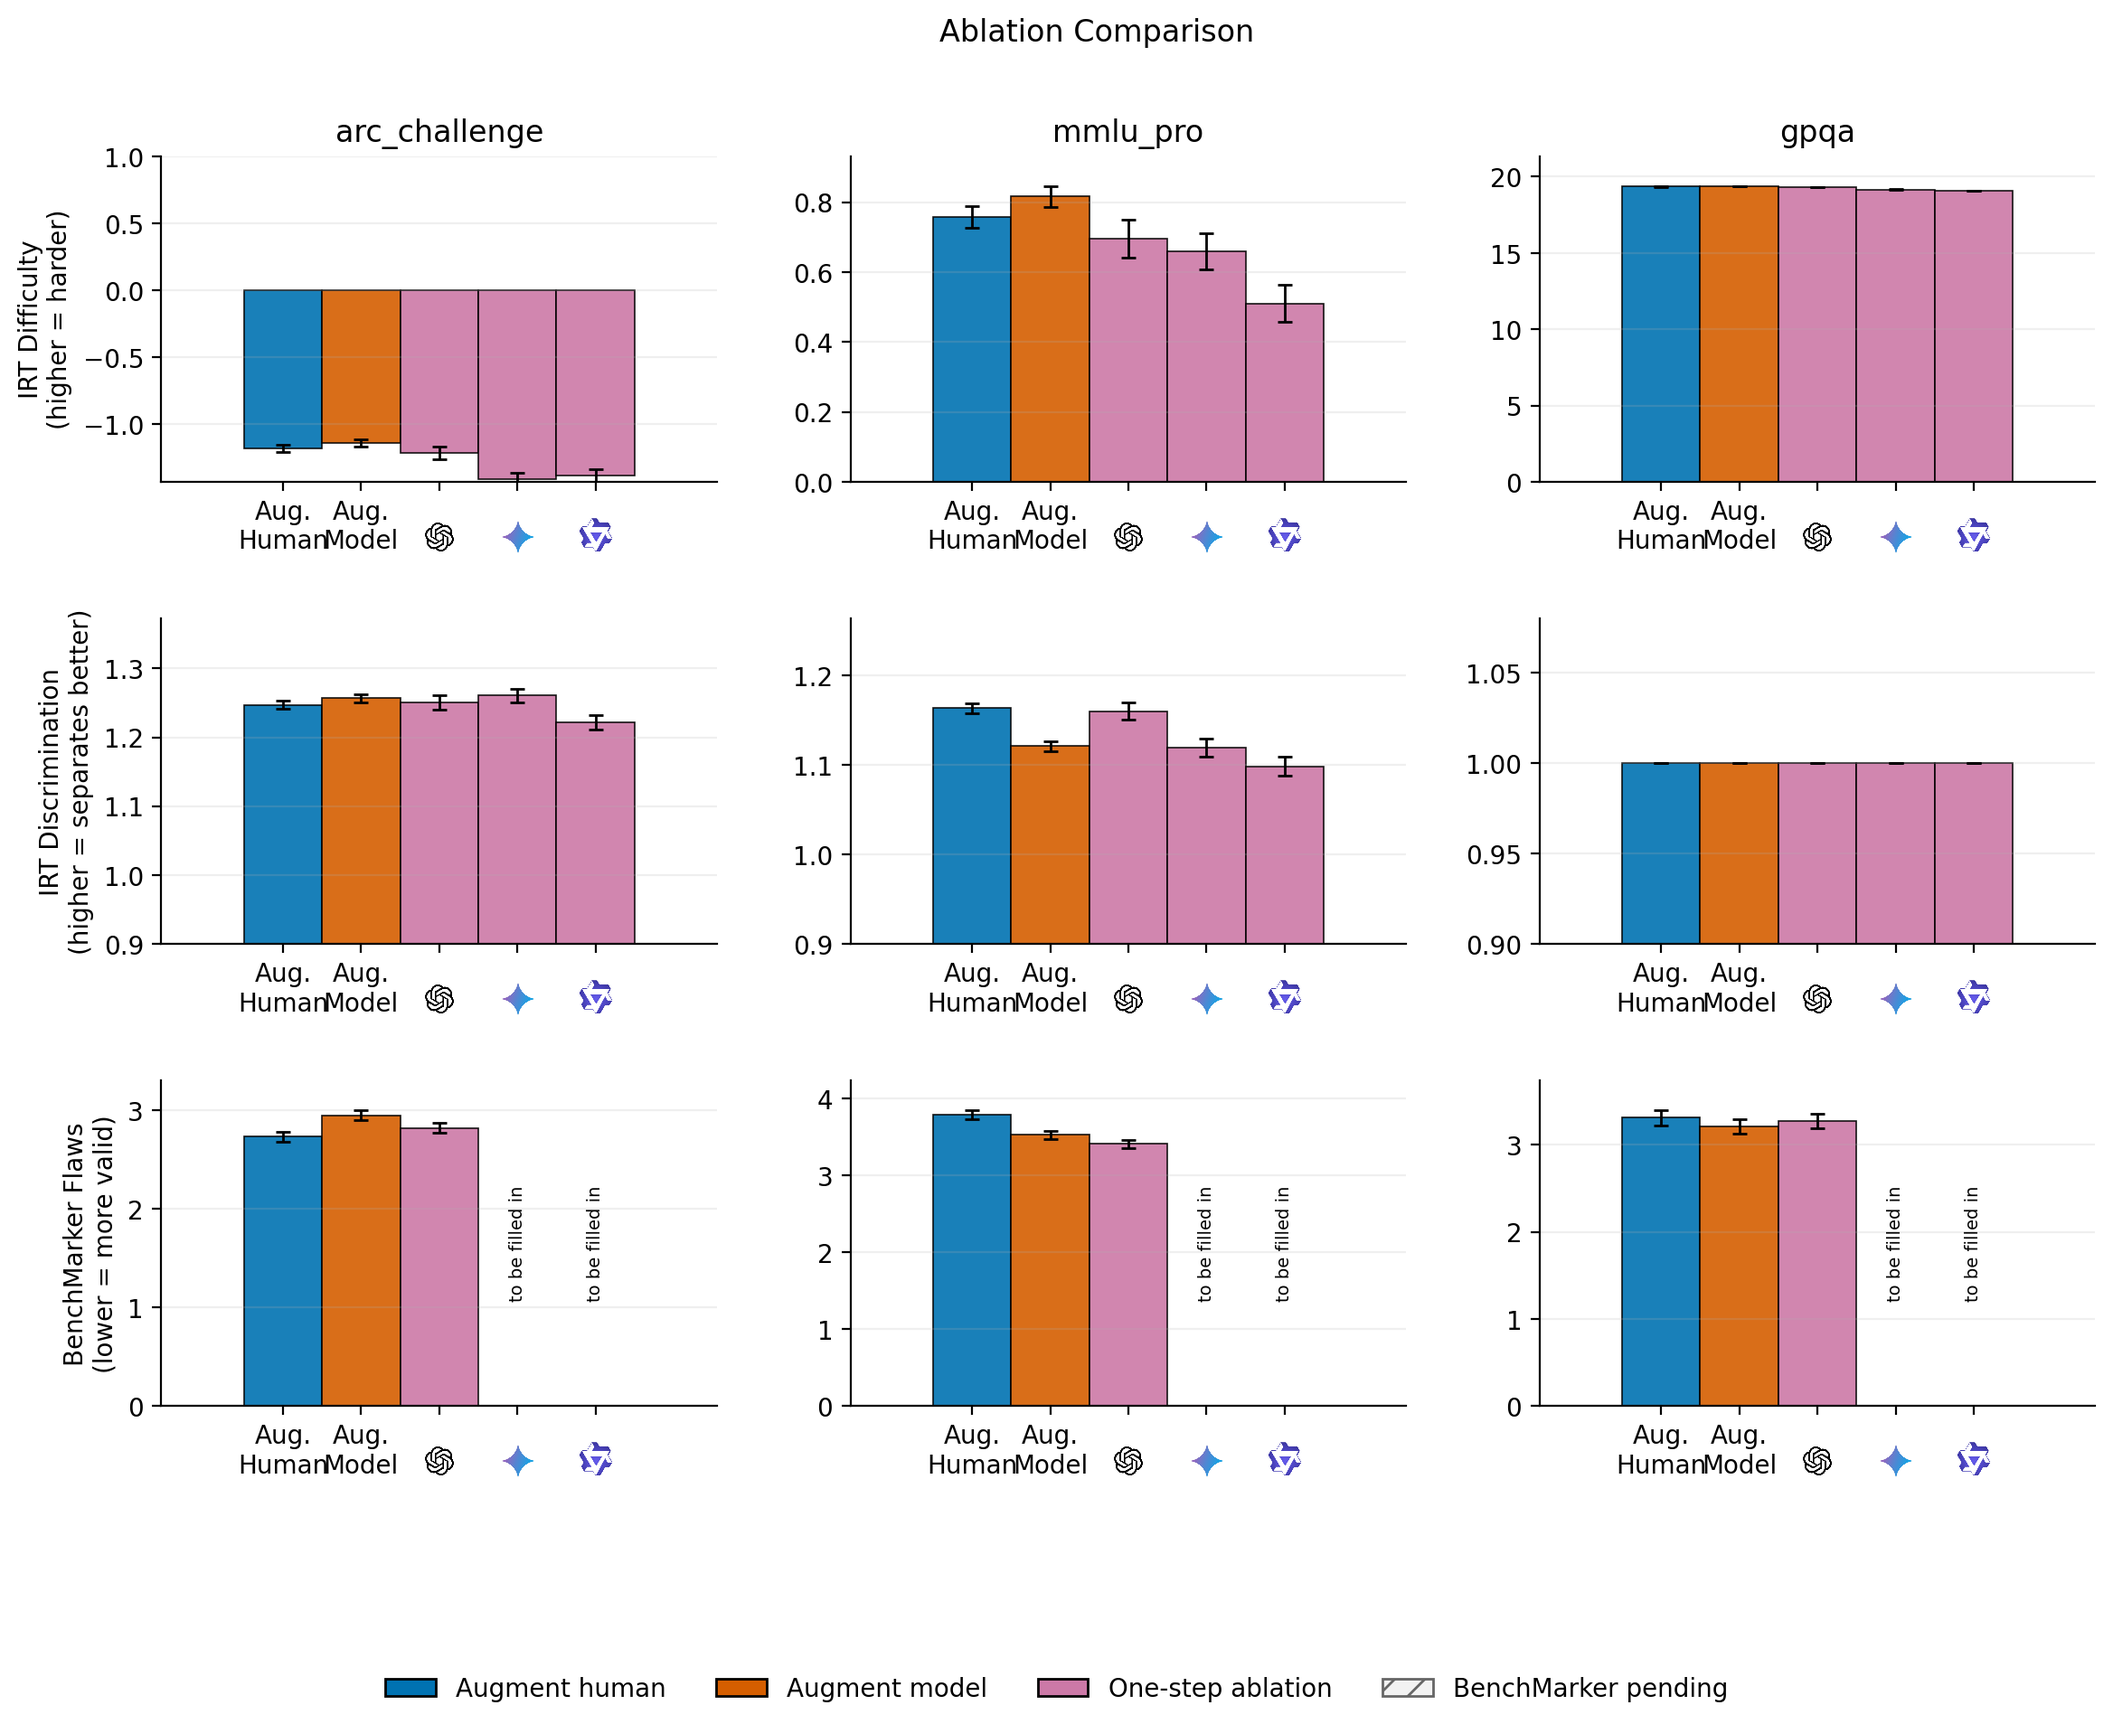
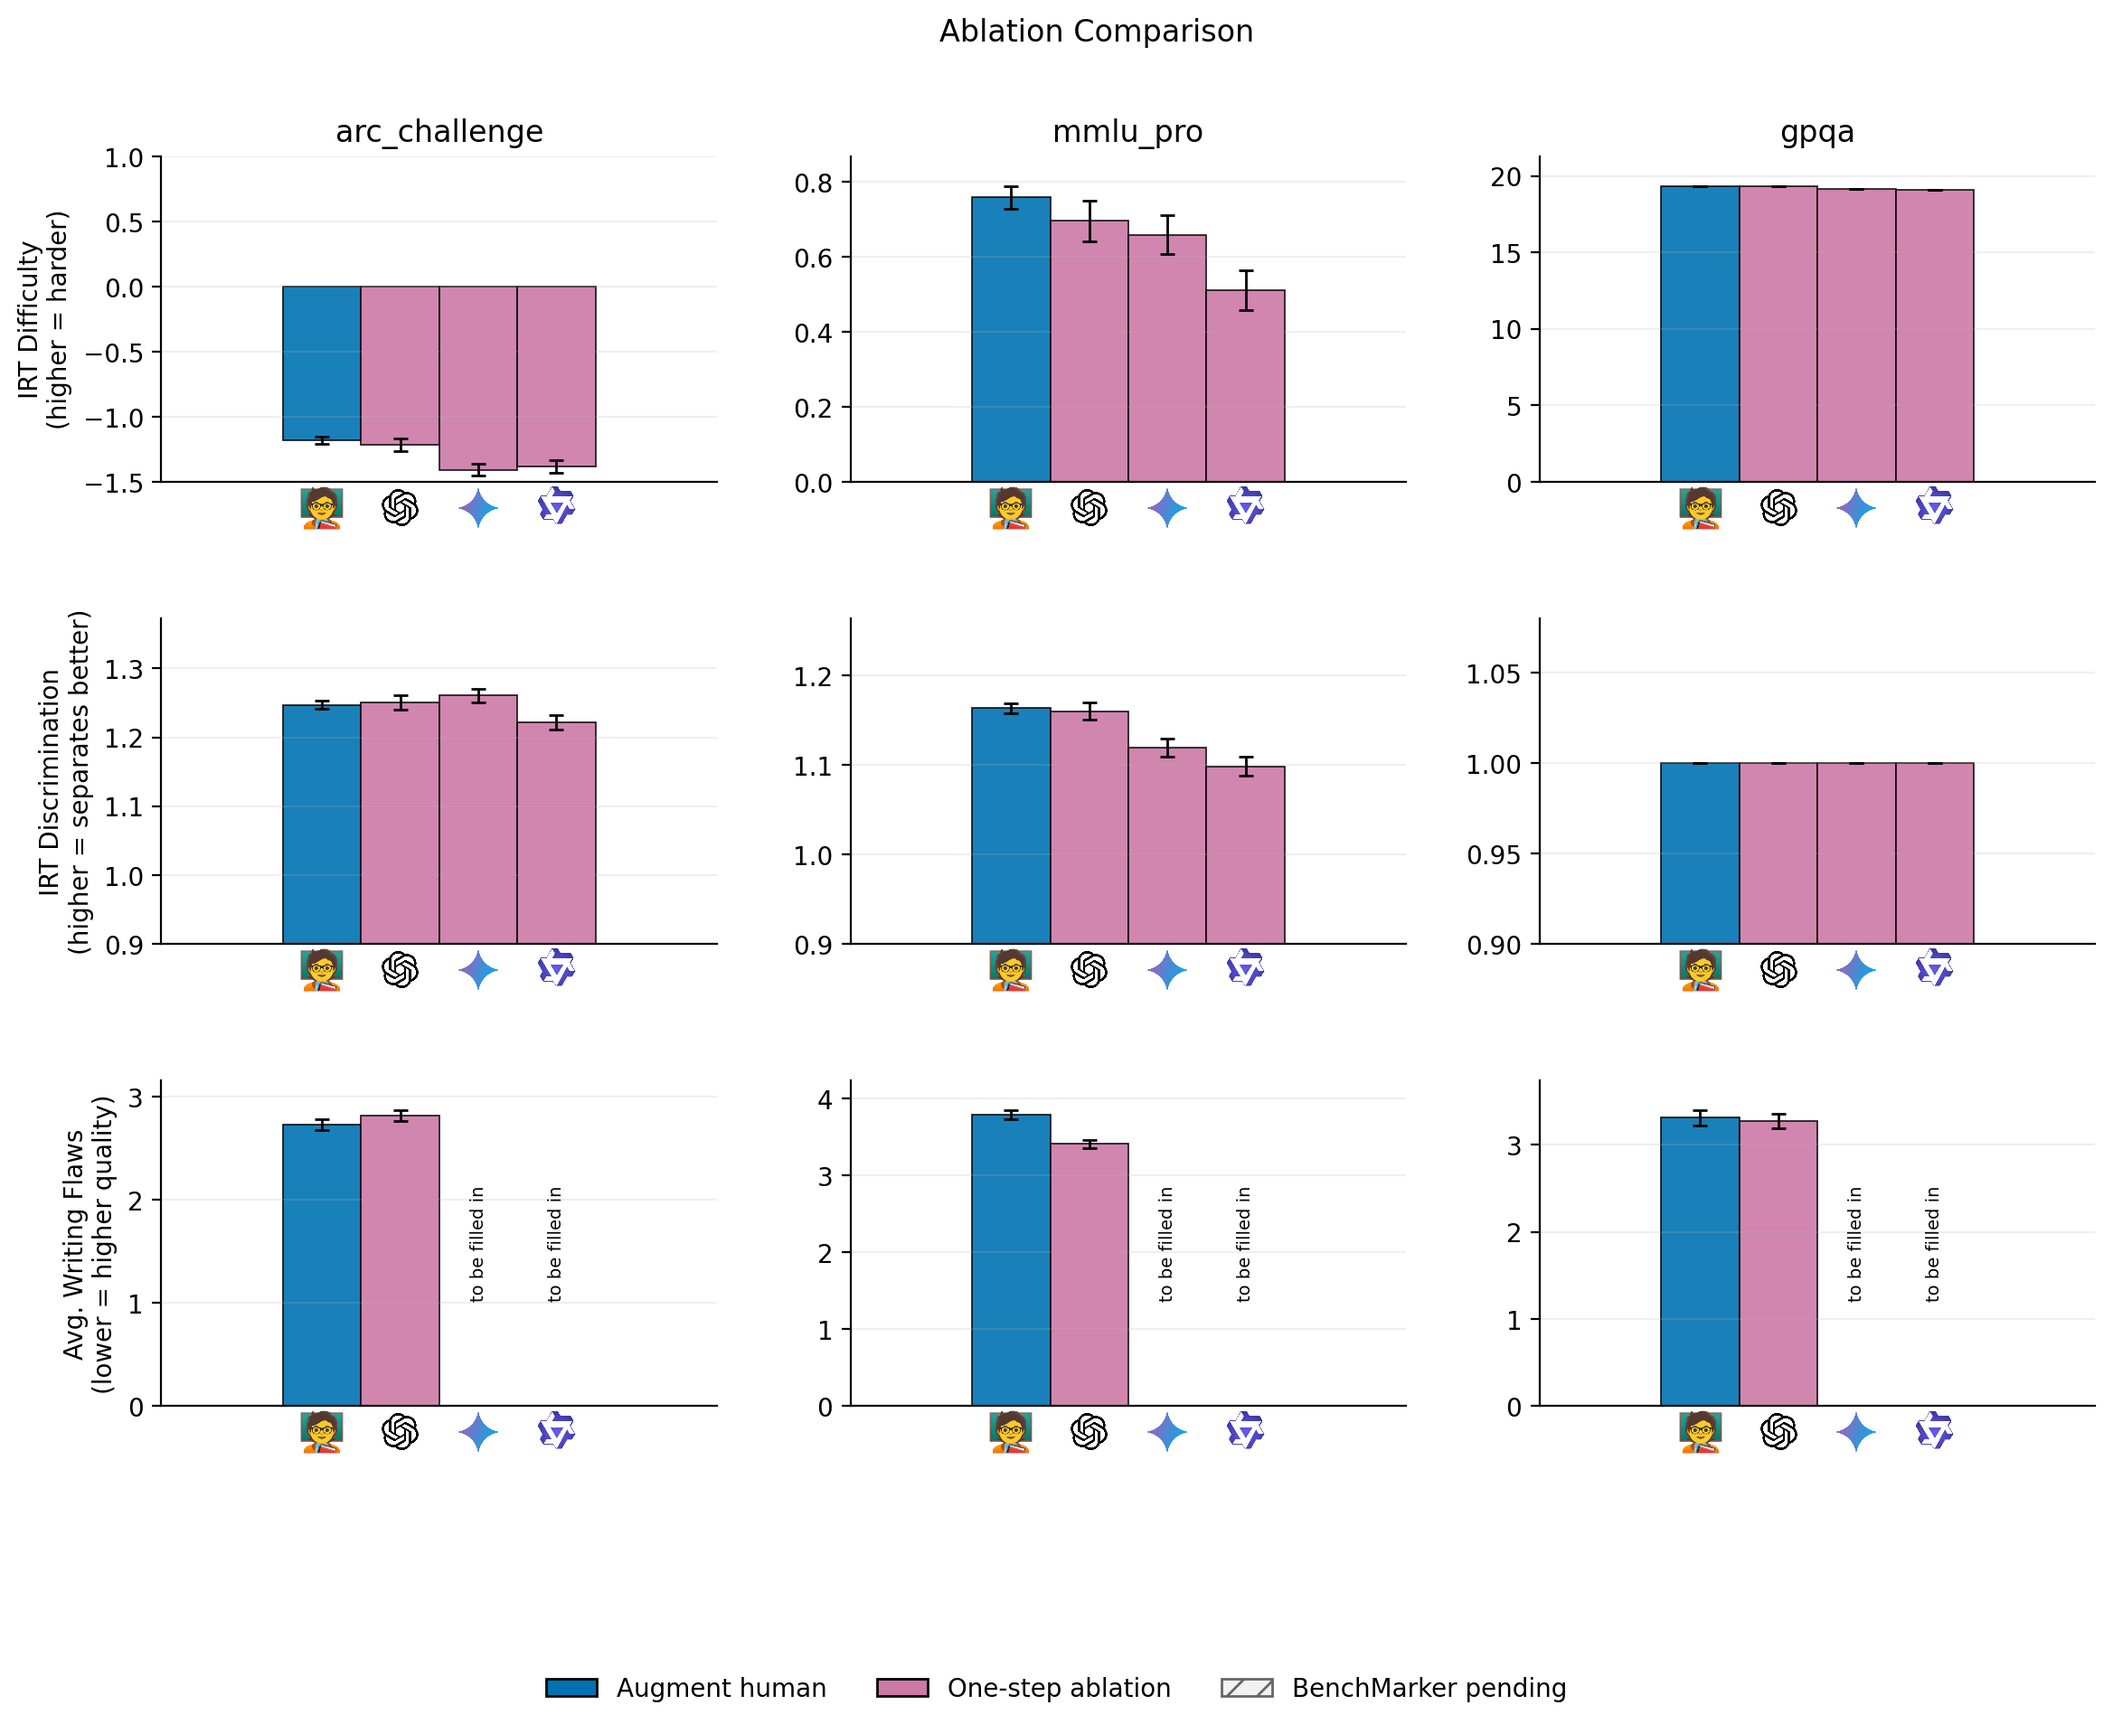
update graphs to look nicer

diff --git a/analysis/irt.py b/analysis/irt.py
@@ -51,12 +51,12 @@ MODEL_LOGOS = {
     "Qwen Ablation": LOGO_DIR / "qwen_logo.png",
 }
 MODEL_LOGO_ZOOM = {
-    "GPT": 0.045,
-    "Gemini": 0.055,
-    "Qwen": 0.07,
-    "GPT Ablation": 0.045,
-    "Gemini Ablation": 0.055,
-    "Qwen Ablation": 0.07,
+    "GPT": 0.057,
+    "Gemini": 0.070,
+    "Qwen": 0.090,
+    "GPT Ablation": 0.057,
+    "Gemini Ablation": 0.070,
+    "Qwen Ablation": 0.080,
 }
 
 STEM_PRIOR_SD = 3.0
@@ -721,7 +721,6 @@ def final_ablation_quality_frame(items: pd.DataFrame, validity: pd.DataFrame) ->
 
     for dataset in sorted(items["dataset"].unique(), key=dataset_sort_key):
         add_row(dataset, "Augment Human", "augment_human", "Human", None, "augment_human")
-        add_row(dataset, "Augment Model", "augment_model", "Model", None, "augment_model")
         for generator, label in MODEL_ORDER:
             add_row(dataset, f"{label} Ablation", "augment_ablation", "Ablation", generator, "augment_ablation" if label == "GPT" else None)
     return pd.DataFrame(rows)
@@ -772,13 +771,13 @@ def draw_final_bar(ax: plt.Axes, x: float, value: float, err: float, row: pd.Ser
     )
 
 
-def add_logo_tick(ax: plt.Axes, x: float, path: Path, *, zoom: float = 0.055) -> None:
+def add_logo_tick(ax: plt.Axes, x: float, path: Path, *, zoom: float = 0.055, y: float = -0.08) -> None:
     if not path.exists():
         return
     image = plt.imread(path)
     artist = AnnotationBbox(
         OffsetImage(image, zoom=zoom),
-        (x, -0.17),
+        (x, y),
         xycoords=("data", "axes fraction"),
         frameon=False,
         box_alignment=(0.5, 0.5),
@@ -788,12 +787,16 @@ def add_logo_tick(ax: plt.Axes, x: float, path: Path, *, zoom: float = 0.055) ->
     ax.add_artist(artist)
 
 
+def add_human_tick(ax: plt.Axes, x: float, y: float = -0.08) -> None:
+    add_logo_tick(ax, x, LOGO_DIR / "human_logo.png", zoom=0.14, y=y)
+
+
 def plot_final_grouped_quality(summary: pd.DataFrame, path: Path) -> Path:
     datasets = sorted(summary["dataset"].unique(), key=dataset_sort_key)
     metrics = [
         ("difficulty", "difficulty_se", "IRT Difficulty\n(higher = harder)"),
         ("discrimination", "discrimination_se", "IRT Discrimination\n(higher = separates better)"),
-        ("mean_flaws", "mean_flaws_se", "BenchMarker Flaws\n(lower = more valid)"),
+        ("mean_flaws", "mean_flaws_se", "Avg. Writing Flaws\n(lower = higher quality)"),
     ]
     fig, axes = plt.subplots(len(metrics), len(datasets), figsize=(5.6 * len(datasets), 10.2), squeeze=False)
 
@@ -822,19 +825,18 @@ def plot_final_grouped_quality(summary: pd.DataFrame, path: Path) -> Path:
 
             ax.set_title(str(dataset) if row_idx == 0 else "")
             ax.set_xticks([section_centers["From Scratch"], section_centers["Augmentation"]])
-            if row_idx == len(metrics) - 1:
-                ax.set_xticklabels(["From Scratch", "Augmentation"], rotation=0)
-                for section in ["From Scratch", "Augmentation"]:
-                    for offset, label in zip(offsets[1:], labels[1:], strict=True):
-                        logo_key = f"{label} Ablation"
-                        add_logo_tick(
-                            ax,
-                            section_centers[section] + float(offset),
-                            MODEL_LOGOS[logo_key],
-                            zoom=MODEL_LOGO_ZOOM[logo_key],
-                        )
-            else:
-                ax.set_xticklabels([])
+            ax.set_xticklabels(["From Scratch", "Augmentation"], rotation=0)
+            ax.tick_params(axis="x", pad=21, bottom=False)
+            for section in ["From Scratch", "Augmentation"]:
+                add_human_tick(ax, section_centers[section] + float(offsets[0]))
+                for offset, label in zip(offsets[1:], labels[1:], strict=True):
+                    logo_key = f"{label} Ablation"
+                    add_logo_tick(
+                        ax,
+                        section_centers[section] + float(offset),
+                        MODEL_LOGOS[logo_key],
+                        zoom=MODEL_LOGO_ZOOM[logo_key],
+                    )
             ax.set_ylabel(ylabel if col == 0 else "")
             ax.grid(axis="y", alpha=0.2)
             ax.spines["top"].set_visible(False)
@@ -857,7 +859,7 @@ def plot_final_grouped_quality(summary: pd.DataFrame, path: Path) -> Path:
     ]
     fig.suptitle("Question Quality: Human vs Model-Generated MCQs")
     fig.legend(handles=handles, loc="lower center", ncols=5, frameon=False)
-    fig.subplots_adjust(top=0.9, bottom=0.13, hspace=0.42, wspace=0.24)
+    fig.subplots_adjust(top=0.9, bottom=0.16, hspace=0.42, wspace=0.24)
     path.parent.mkdir(parents=True, exist_ok=True)
     fig.savefig(path, dpi=200, bbox_inches="tight")
     plt.close(fig)
@@ -869,7 +871,7 @@ def plot_final_ablation_quality(summary: pd.DataFrame, path: Path) -> Path:
     metrics = [
         ("difficulty", "difficulty_se", "IRT Difficulty\n(higher = harder)"),
         ("discrimination", "discrimination_se", "IRT Discrimination\n(higher = separates better)"),
-        ("mean_flaws", "mean_flaws_se", "BenchMarker Flaws\n(lower = more valid)"),
+        ("mean_flaws", "mean_flaws_se", "Avg. Writing Flaws\n(lower = higher quality)"),
     ]
     fig, axes = plt.subplots(len(metrics), len(datasets), figsize=(4.6 * len(datasets), 9.6), squeeze=False)
     for col, dataset in enumerate(datasets):
@@ -877,8 +879,8 @@ def plot_final_ablation_quality(summary: pd.DataFrame, path: Path) -> Path:
         for row_idx, (metric, err_col, ylabel) in enumerate(metrics):
             ax = axes[row_idx][col]
             plotted = []
-            labels = ["Augment Human", "Augment Model", "GPT Ablation", "Gemini Ablation", "Qwen Ablation"]
-            x_positions = np.array([-0.36, -0.18, 0.0, 0.18, 0.36])
+            labels = ["Augment Human", "GPT Ablation", "Gemini Ablation", "Qwen Ablation"]
+            x_positions = np.array([-0.27, -0.09, 0.09, 0.27])
             for x, label in zip(x_positions, labels, strict=True):
                 record = dataset_df.loc[label]
                 value = float(record[metric]) if pd.notna(record[metric]) else float("nan")
@@ -890,8 +892,10 @@ def plot_final_ablation_quality(summary: pd.DataFrame, path: Path) -> Path:
             ax.set_title(str(dataset) if row_idx == 0 else "")
             ax.set_xlim(-0.64, 0.64)
             ax.set_xticks(x_positions)
-            ax.set_xticklabels(["Aug.\nHuman", "Aug.\nModel", "", "", ""])
-            for x, label in zip(x_positions[2:], labels[2:], strict=True):
+            ax.set_xticklabels(["", "", "", ""])
+            ax.tick_params(axis="x", bottom=False)
+            add_human_tick(ax, float(x_positions[0]))
+            for x, label in zip(x_positions[1:], labels[1:], strict=True):
                 add_logo_tick(ax, float(x), MODEL_LOGOS[label], zoom=MODEL_LOGO_ZOOM[label])
             ax.set_ylabel(ylabel if col == 0 else "")
             ax.grid(axis="y", alpha=0.2)
@@ -901,10 +905,13 @@ def plot_final_ablation_quality(summary: pd.DataFrame, path: Path) -> Path:
                 ymax = max(plotted) * 1.08 if plotted else 1.05
                 ax.set_ylim(0.9, max(ymax, 1.05))
             elif plotted:
-                ax.set_ylim(min(0.0, min(plotted) * 1.05), max(plotted) * 1.1 if max(plotted) > 0 else 1.0)
+                ymin = min(0.0, min(plotted) * 1.05)
+                if dataset == "arc_challenge" and metric == "difficulty" and ymin > -1.5:
+                    ymin = -1.5
+                ymax = max(plotted) * 1.1 if max(plotted) > 0 else 1.0
+                ax.set_ylim(ymin, ymax)
     handles = [
         plt.Rectangle((0, 0), 1, 1, facecolor=HUMAN_COLOR, edgecolor="black", label="Augment human"),
-        plt.Rectangle((0, 0), 1, 1, facecolor=MODEL_COLOR, edgecolor="black", label="Augment model"),
         plt.Rectangle((0, 0), 1, 1, facecolor=ABLATION_COLOR, edgecolor="black", label="One-step ablation"),
         plt.Rectangle((0, 0), 1, 1, facecolor=MISSING_COLOR, edgecolor="#666666", hatch="//", label="BenchMarker pending"),
     ]
@@ -944,7 +951,7 @@ def plot_irt_quality(summary: pd.DataFrame, path: Path) -> Path:
             [
                 ("difficulty", "difficulty_se", "IRT Difficulty\n(higher = harder)"),
                 ("discrimination", "discrimination_se", "IRT Discrimination\n(higher = separates better)"),
-                ("mean_flaws", "mean_flaws_se", "BenchMarker Flaws\n(lower = more valid)"),
+                ("mean_flaws", "mean_flaws_se", "Avg. Writing Flaws\n(lower = higher quality)"),
             ]
         ):
             ax = axes[row][col]

diff --git a/analysis/regenerate_plots.py b/analysis/regenerate_plots.py
@@ -1,0 +1,21 @@
+import sys
+from pathlib import Path
+sys.path.append("/fs/nexus-projects/rlab/atrey/qgqa/augmented-mcqa")
+import pandas as pd
+from analysis.irt import plot_final_ablation_quality, plot_final_grouped_quality, plot_irt_quality
+
+tables = Path("/fs/nexus-projects/rlab/atrey/qgqa/augmented-mcqa/results/augmented_mcqa_irt/tables")
+figures = Path("/fs/nexus-projects/rlab/atrey/qgqa/augmented-mcqa/results/augmented_mcqa_irt/figures/final_figures")
+figures.mkdir(parents=True, exist_ok=True)
+figures_base = Path("/fs/nexus-projects/rlab/atrey/qgqa/augmented-mcqa/results/augmented_mcqa_irt/figures")
+
+# Load data
+final_quality = pd.read_csv(tables / "final_grouped_question_quality.csv")
+ablation_quality = pd.read_csv(tables / "final_ablation_question_quality.csv")
+combined_quality = pd.read_csv(tables / "question_quality_by_dataset_setting.csv")
+
+# Only plot the final ones
+plot_final_grouped_quality(final_quality, figures / "question_quality_grouped.png")
+plot_final_ablation_quality(ablation_quality, figures / "ablation_quality.png")
+plot_irt_quality(combined_quality, figures_base / "question_quality_all_settings.png")
+print("Done")
